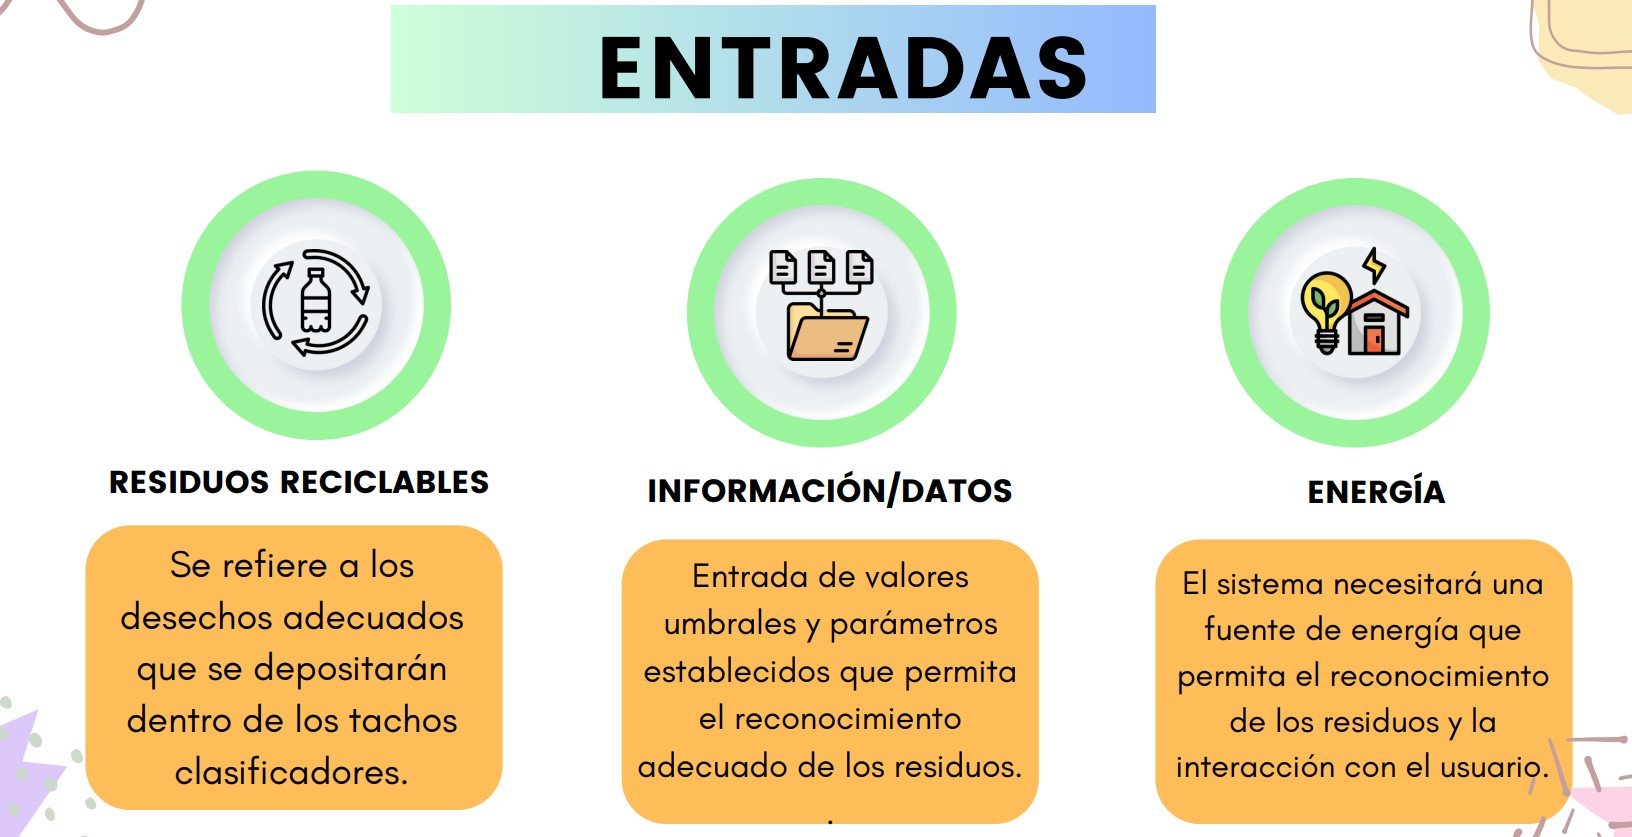
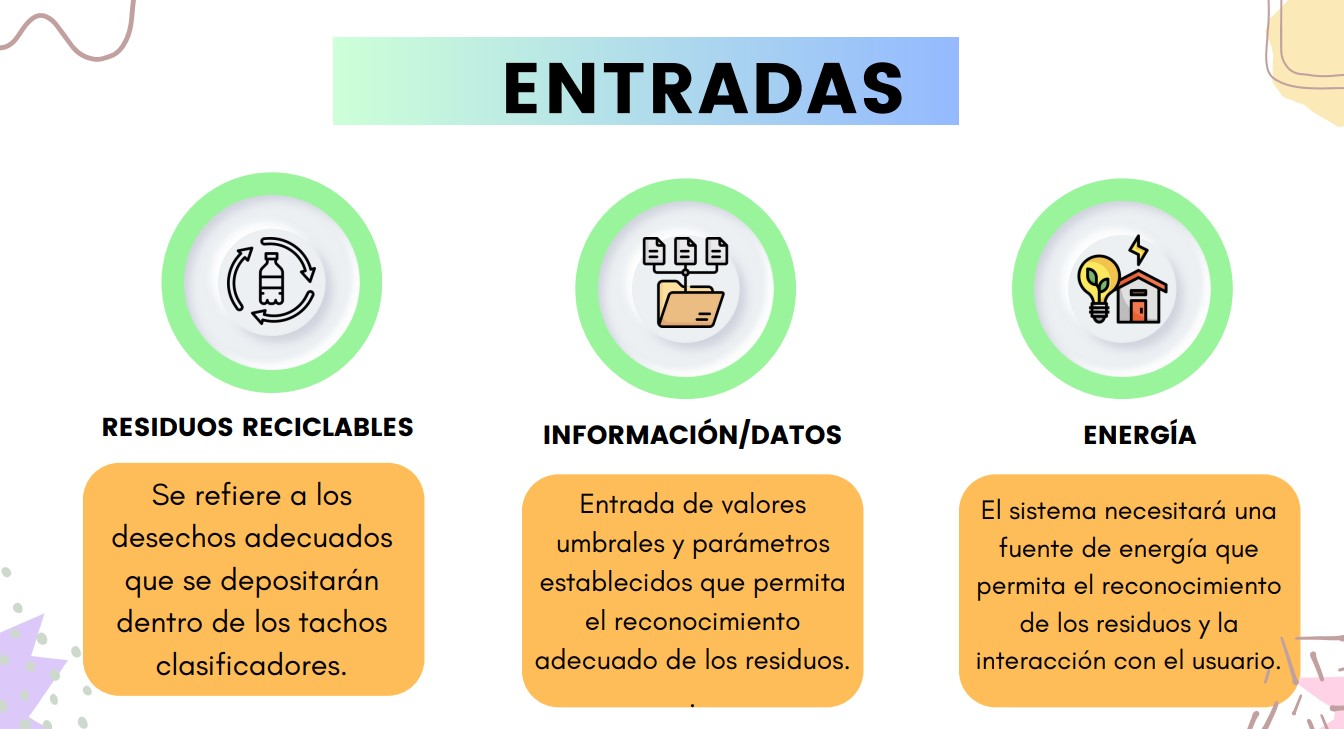
"commit"

diff --git a/FdD/Entregables/5.-Caja_negra_y_esquema_de_funciones.md b/FdD/Entregables/5.-Caja_negra_y_esquema_de_funciones.md
@@ -47,7 +47,7 @@ Otro de los componentes que forman parte de la lista de documentación de esta m
 
 
 <p align= "center">
-  <img src="https://github.com/gcdavidq/Project_FdD/blob/main/Carpetas_del_Proyecto/Imagenes/G-Caja%20negra%20y%20funciones/c1.-Esquema%20de%20funciones.jpg" alt="imagen del grupo" width="1000px"/>
+  <img src="https://github.com/gcdavidq/Project_FdD/blob/main/Carpetas_del_Proyecto/Imagenes/G-Caja%20negra%20y%20funciones/c3.-Esquema%20de%20funciones.jpg" alt="imagen del grupo" width="1000px"/>
 </p>
 
 <p align="center" style="margin-top: 50px; margin-bottom: 50px; font-family: Arial, sans-serif;">
